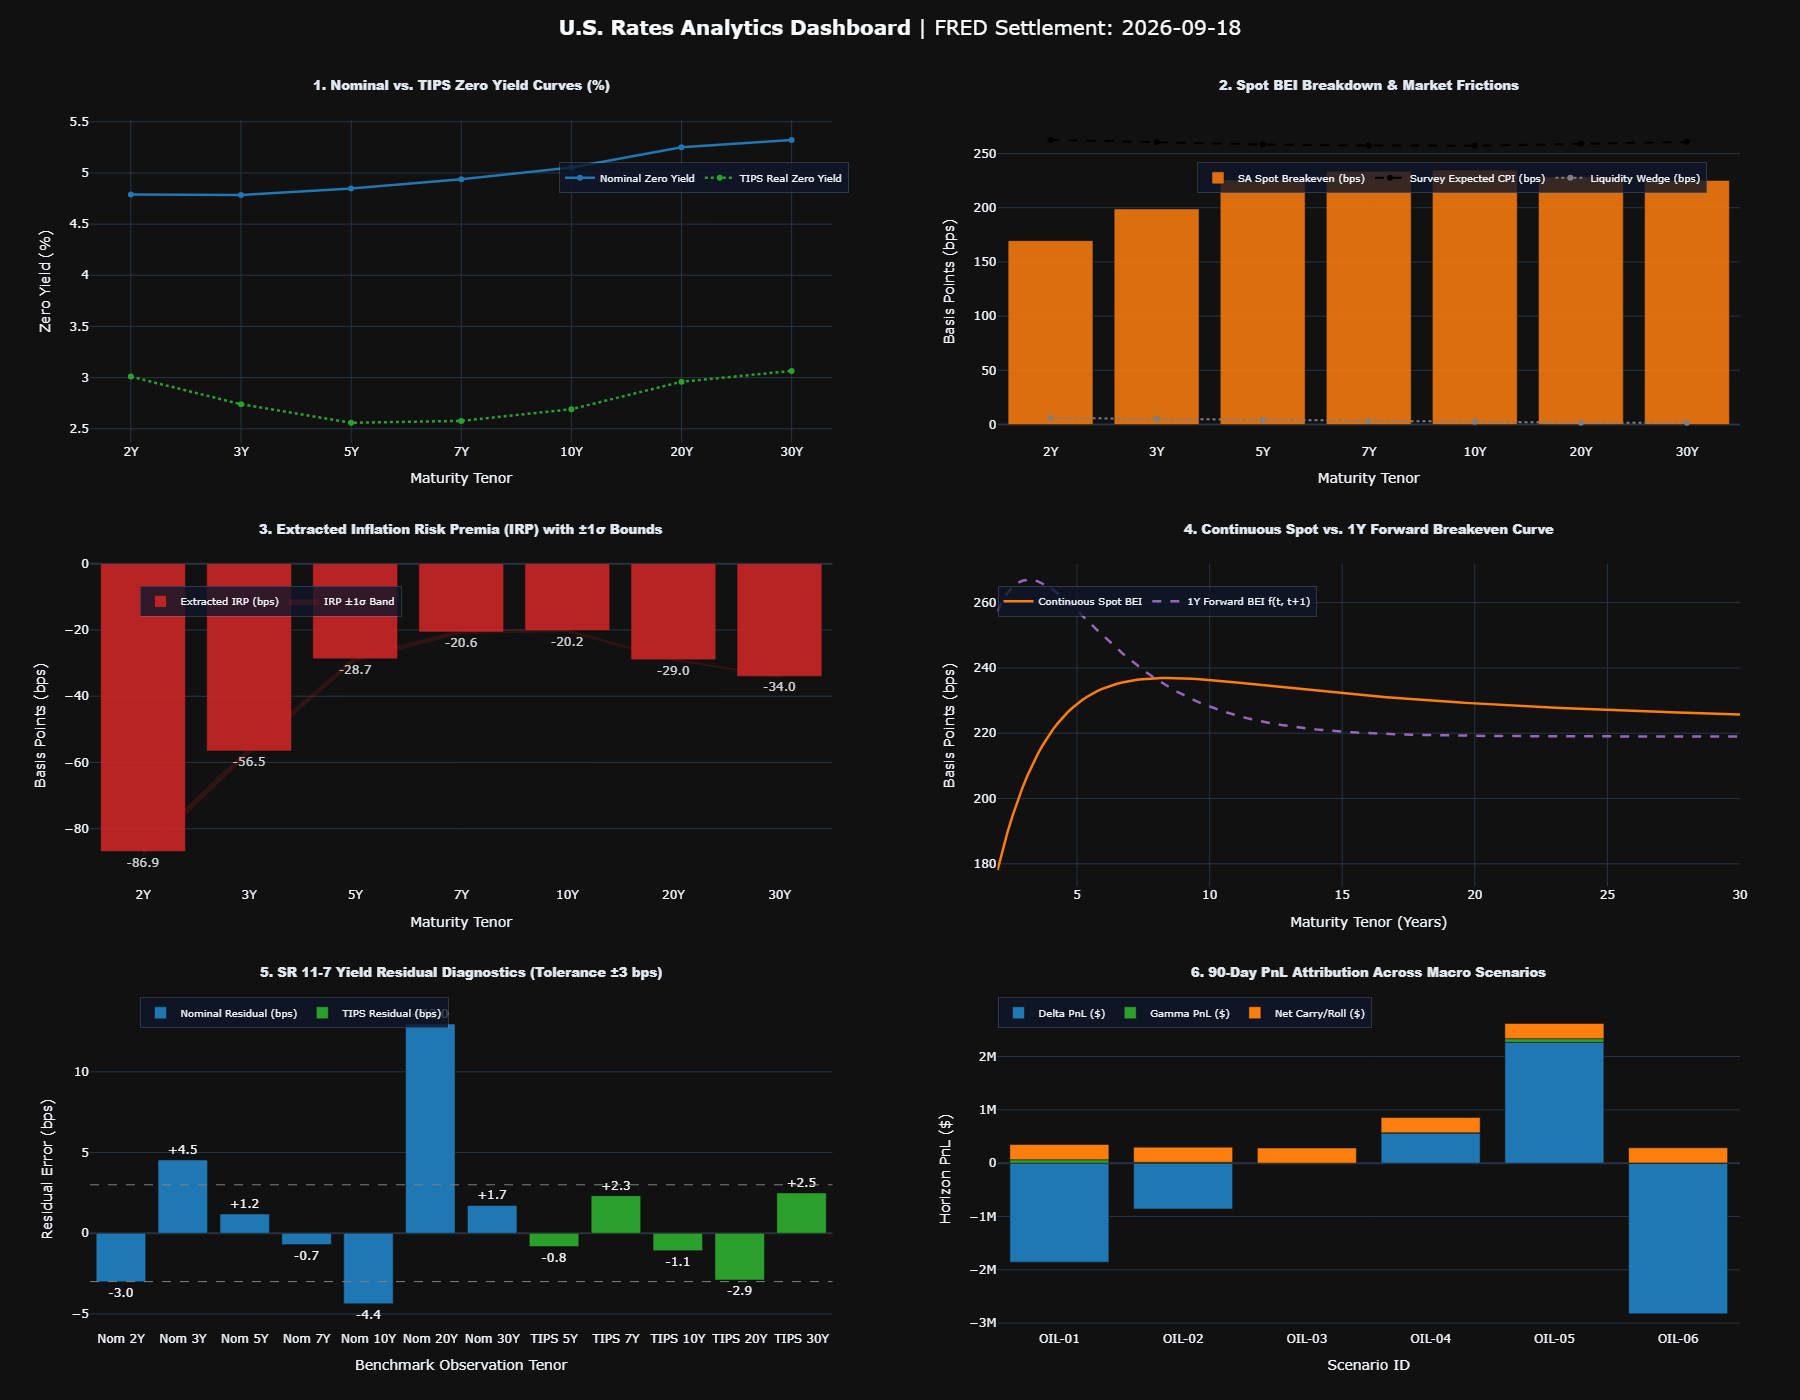
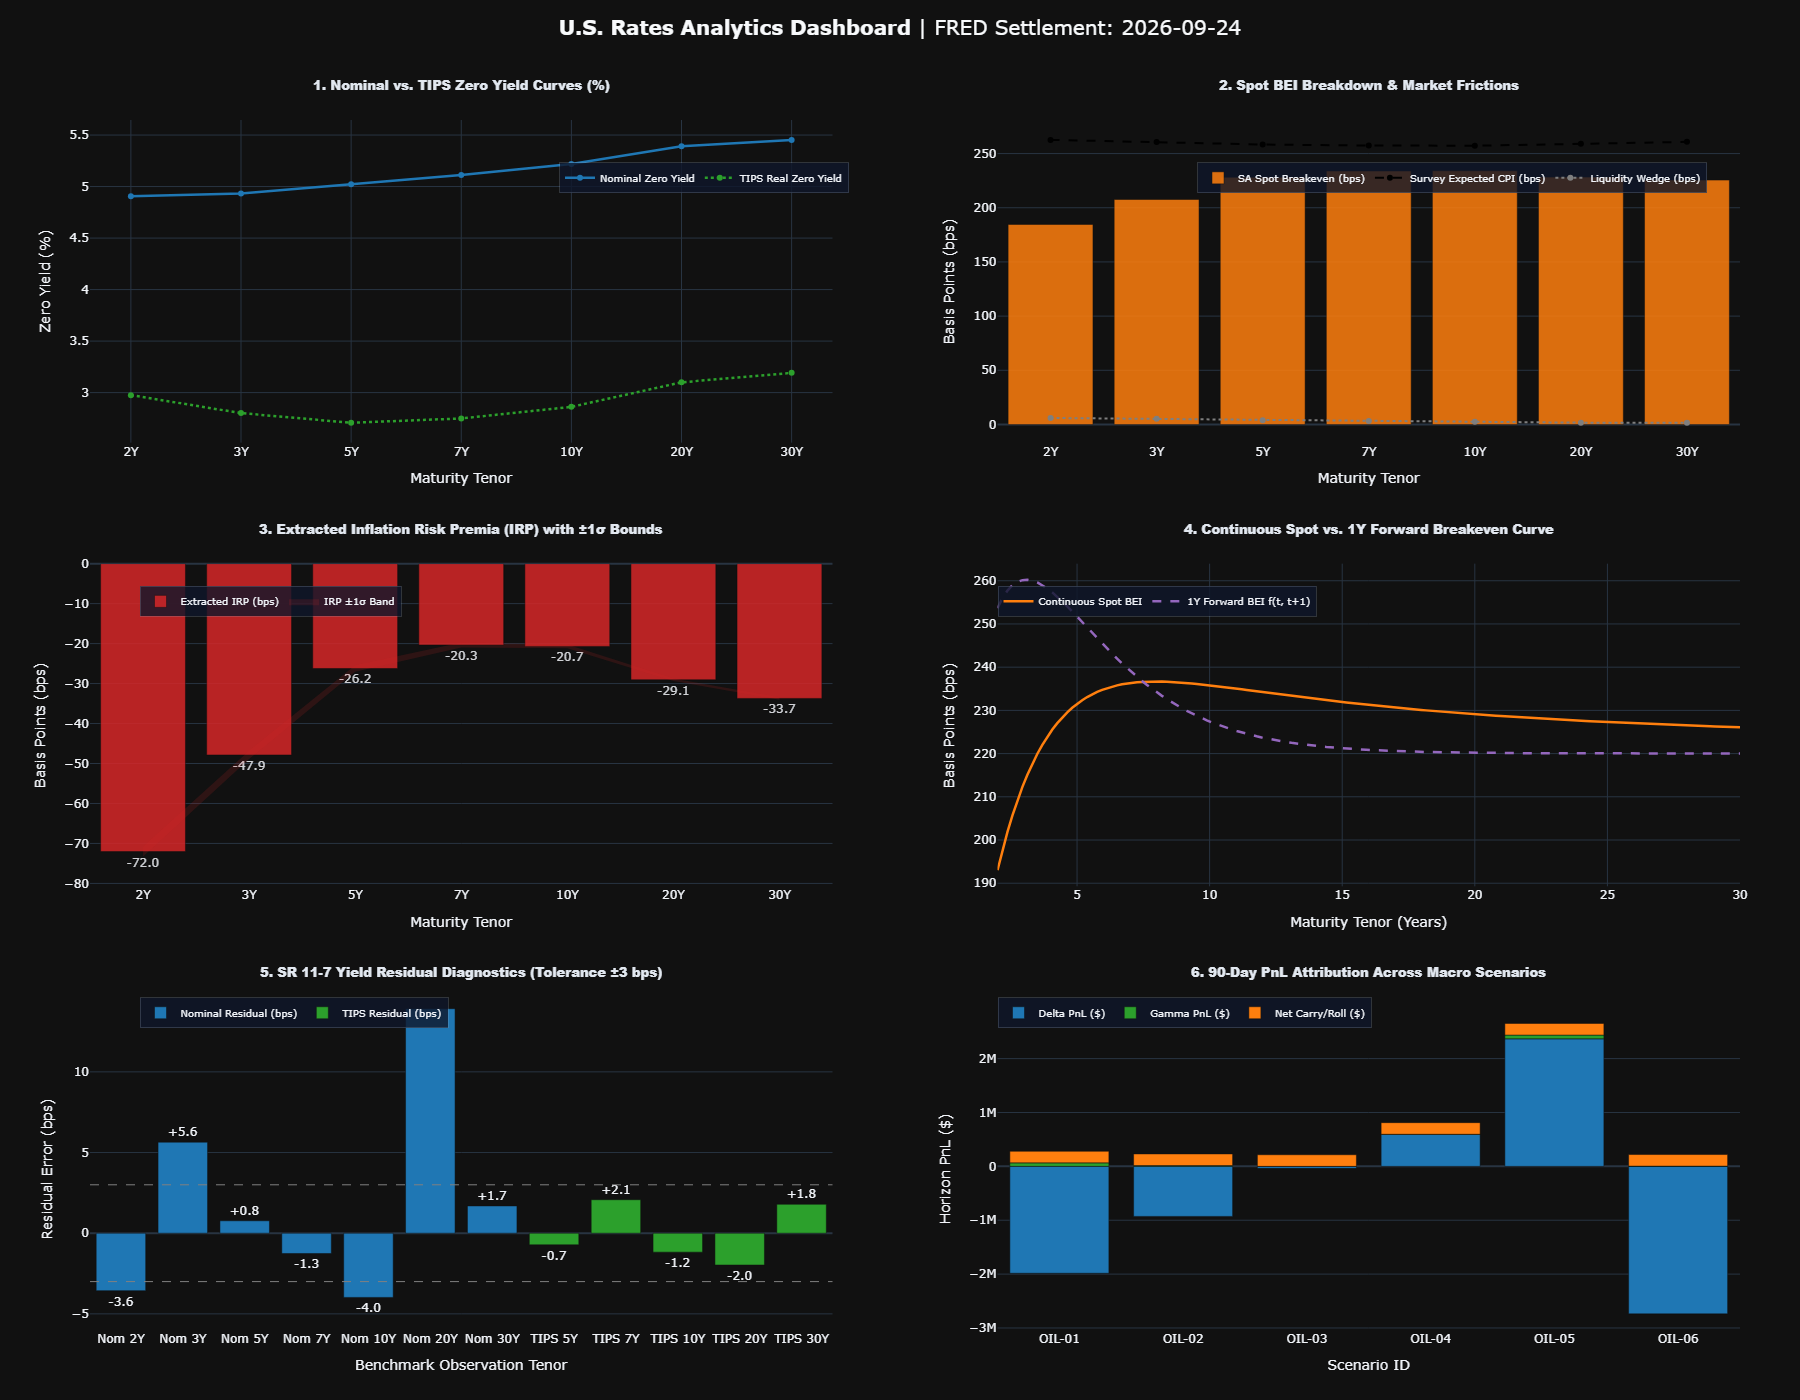
Add files via upload

diff --git a/notebooks/TERM_STRUCTURE_ANALYTICS_OUTPUT.md b/notebooks/TERM_STRUCTURE_ANALYTICS_OUTPUT.md
@@ -1,26 +1,33 @@
-## 4. U.S. Rates & Breakeven Inflation Research Note
-**Settlement Date:** 2026-09-18 | **Model:** Dual Nelson-Siegel Decomposition (D'Amico, Kim, and Wei (2018) Structural Accounting Framework)
+## U.S. RATES & BREAKEVEN INFLATION RESEARCH NOTE
+**Settlement Date:** 2026-09-24 | **Model:** Dual Nelson-Siegel Decomposition (D'Amico, Kim, and Wei (2018) Structural Accounting Framework)
 
 ![Term Structure Dashboard](rates_dashboard.png)
 
-### 1. Executive Summary
-Quantitative term structure and relative-value breakeven analytics for settlement date **September 18, 2026**:
+### 1. Executive Summary & Market Context
 
+#### 1.1 Macro Regime Surveillance (2022 - 2026)
+
+![Macro Regime Time Series](macro_regime_timeseries.png)
+
+* **10Y Rate Trajectory**: 10Y Nominal yields moved from 1.63% to 5.18% (+355 bps), while 10Y TIPS real yields shifted from -0.97% to 2.85% (+382 bps net: historical range [-1.04%, 2.85%]).
+* **Forward Expectation Anchoring**: 5y5y forward breakevens traded in a 1.92%-2.67% corridor (latest: 2.33%).
+
+#### 1.2 Spot Breakeven Term Structure (September 24, 2026)
 * **Spot Breakeven Term Structure**:
-  * **2Y Spot BEI**: Trades at 178.07 bps (4.790% Nominal vs. 3.009% TIPS).
-  * **Seasonality Adjustment**: Dynamic 5-year BLS factor for September adjusts 2Y SA breakeven to 169.66 bps (-8.41 bps wedge).
-  * **Key Slopes**: 5Y at 225.62 bps and 10Y at 234.61 bps (**5s10s: +8.99 bps**); 30Y anchors at 225.21 bps (**10s30s: -9.40 bps**).
-* **Forward Anchoring (5Y5Y)**: Evaluates to **243.61 bps**.
+  * **2Y Spot BEI**: Trades at 193.01 bps (4.906% Nominal vs. 2.975% TIPS).
+  * **Seasonality Adjustment**: Dynamic 5-year BLS factor for September adjusts 2Y SA breakeven to 184.61 bps (-8.41 bps wedge).
+  * **Key Slopes**: 5Y at 228.15 bps and 10Y at 234.13 bps (**5s10s: +5.98 bps**); 30Y anchors at 225.54 bps (**10s30s: -8.59 bps**).
+* **Forward Anchoring (5Y5Y)**: Evaluates to **240.11 bps**.
 * **Affine IRP Term Premia**:
-  * **10Y IRP**: **-20.18 bps** (±1σ: [-20.68, -19.69] bps)
-  * **30Y IRP**: **-34.02 bps** (±1σ: [-34.34, -33.71] bps)
+  * **10Y IRP**: **-20.70 bps** (±1σ: [-21.19, -20.22] bps)
+  * **30Y IRP**: **-33.72 bps** (±1σ: [-34.03, -33.41] bps)
 
 ---
 
 ### 2. Econometric Diagnostics & Model Validation (SR 11-7)
 
 #### 2.1 Statistical Goodness-of-Fit & Calibration
-1. **Model Selection (BIC)**: Nominal $\text{BIC}_{\text{NS}} = -100.96$ vs. $\text{BIC}_{\text{NSS}} = -95.56$. Selected: **Diebold Li Nelson-Siegel (3-Factor Linear)**.
+1. **Model Selection (BIC)**: Nominal $\text{BIC}_{\text{NS}} = -99.85$ vs. $\text{BIC}_{\text{NSS}} = -94.44$. Selected: **Diebold Li Nelson-Siegel (3-Factor Linear)**.
 2. **Diebold-Li (2006) Parameter Invariance**:
    * Structural decay constant: $\tau_1 = 2.2306$ (centering the empirical curvature hump at $\tau^* = 4.0\text{ years}$).
    * Estimation: Exact closed-form Weighted Least Squares (WLS) with zero non-linear optimization risk.
@@ -28,8 +35,8 @@ Quantitative term structure and relative-value breakeven analytics for settlemen
    * Base front-end wedge: 6.50 bps (decay half-life: 5.0 yrs; floor: 1.50 bps).
    * Stress scalar sensitivity: $\gamma = 0.25$ scaled against STLFSI4.
 4. **Numerical Stability**: Nominal basis condition number $\kappa = 23.73$; TIPS $\kappa = 82.25$ (well below the 30.0 threshold).
-5. **Residual Precision**: Nominal RMSE = 5.631 bps; TIPS RMSE = 2.091 bps.
-6. **Reference Indexation**: Daily interpolated Ref CPI = 333.9327 ($CIF = 1.0307$).
+5. **Residual Precision**: Nominal RMSE = 6.083 bps; TIPS RMSE = 1.631 bps.
+6. **Reference Indexation**: Daily interpolated Ref CPI = 333.9259 ($CIF = 1.0307$).
 
 #### 2.2 Model Governance, Assumptions & Operational Limitations
 * **Model Classification**: Tier 2 Quantitative Valuation & Relative Value Engine.
@@ -42,17 +49,17 @@ calibrated via observable market liquidity proxies rather than the continuous-ti
 
 ### 4.6 Quantitative Dashboard Figure Interpretation
 
-* **Figure 1 (Zero Yield Term Structure & Macro Stance)**: The nominal curve trades **upward-sloping (steep)** (2s10s spread: **+26.4 bps**, spanning 4.79% to 5.32%), while the real TIPS curve exhibits a 2s10s slope of **-31.9 bps** (3.01% to 3.07%). Real yields are firmly restrictive across all tenors (trough at **2.56%**), confirming that policy rates ($r > r^*$) maintain high hurdle rates across risk assets. Ten-year real rates are anchoring at an elevated **2.69%**, discounting post-GFC secular stagnation.
+* **Figure 1 (Zero Yield Term Structure & Macro Stance)**: The nominal curve trades **upward-sloping (steep)** (2s10s spread: **+31.4 bps**, spanning 4.91% to 5.45%), while the real TIPS curve exhibits a 2s10s slope of **-11.4 bps** (2.98% to 3.19%). Real yields are firmly restrictive across all tenors (trough at **2.71%**), confirming that policy rates ($r > r^*$) maintain high hurdle rates across risk assets. Ten-year real rates are anchoring at an elevated **2.86%**, discounting post-GFC secular stagnation.
 
-* **Figure 2 (Spot BEI Breakdown & Market Frictions)**: Seasonally adjusted spot breakevens span **169.7 to 234.6 bps**. At the 10Y tenor, consensus survey CPI sits **22.7 bps above** market-implied pricing. The DKW-calibrated liquidity wedge imposes a **6.1 bps penalty at 2Y**, decaying asymptotically to **1.6 bps at 30Y**.
+* **Figure 2 (Spot BEI Breakdown & Market Frictions)**: Seasonally adjusted spot breakevens span **184.6 to 234.1 bps**. At the 10Y tenor, consensus survey CPI sits **23.1 bps above** market-implied pricing. The DKW-calibrated liquidity wedge imposes a **6.0 bps penalty at 2Y**, decaying asymptotically to **1.6 bps at 30Y**.
 
-* **Figure 3 (Extracted Inflation Risk Premia & Confidence Bands)**: Extracted latent IRP sits strictly in a **negative corridor** (-86.9 to -20.2 bps). This reflects strong institutional duration demand (asset-liability matching at prevailing 5.05% nominal yields) and flight-to-safety hedging that compresses nominal yields below survey expectations. At the 10Y benchmark, IRP evaluates to **-20.2 bps** (\pm 1\sigma bounds: [-20.7, -19.7] bps).
+* **Figure 3 (Extracted Inflation Risk Premia & Confidence Bands)**: Extracted latent IRP sits strictly in a **negative corridor** (-72.0 to -20.3 bps). This reflects strong institutional duration demand (asset-liability matching at prevailing 5.22% nominal yields) and flight-to-safety hedging that compresses nominal yields below survey expectations. At the 10Y benchmark, IRP evaluates to **-20.7 bps** (\pm 1\sigma bounds: [-21.2, -20.2] bps).
 
-* **Figure 4 (Continuous Spot vs. 1Y Forward Breakevens)**: Calibrating curves via the Diebold-Li (2006) macro invariant ($\tau_1 = 2.2307$, $\tau^* = 4.0\text{Y}$) ensures identical factor loading spaces across nominal and TIPS curves. The continuous 1Y forward breakeven curve $f^{\text{BEI}}(t, t+1)$ eliminates tail-whip divergence. The benchmark 5Y5Y forward breakeven anchors cleanly at **243.6 bps**, confirming long-term central bank credibility remains intact.
+* **Figure 4 (Continuous Spot vs. 1Y Forward Breakevens)**: Calibrating curves via the Diebold-Li (2006) macro invariant ($\tau_1 = 2.2307$, $\tau^* = 4.0\text{Y}$) ensures identical factor loading spaces across nominal and TIPS curves. The continuous 1Y forward breakeven curve $f^{\text{BEI}}(t, t+1)$ eliminates tail-whip divergence. The benchmark 5Y5Y forward breakeven anchors cleanly at **240.1 bps**, confirming long-term central bank credibility remains intact.
 
-* **Figure 5 (SR 11-7 Model Residual Diagnostics)**: **FLAGGED**: 3 liquid benchmark(s) exceeded the $\pm 3.0\text{ bps}$ gate: **Nom 2Y (-3.0 bps), Nom 3Y (+4.5 bps), Nom 10Y (-4.4 bps)**. Aggregate Nominal RMSE printed at **5.63 bps** and TIPS RMSE at **2.09 bps**, reflecting the parsimony trade-off of a 3-factor linear basis. The nominal 20Y trades at an outlier residual of **+13.0 bps** (isolated via WOLS weight $w_{20\text{Y}} = 0.05$).
+* **Figure 5 (SR 11-7 Model Residual Diagnostics)**: **FLAGGED**: 3 liquid benchmark(s) exceeded the $\pm 3.0\text{ bps}$ gate: **Nom 2Y (-3.6 bps), Nom 3Y (+5.6 bps), Nom 10Y (-4.0 bps)**. Aggregate Nominal RMSE printed at **6.08 bps** and TIPS RMSE at **1.63 bps**, reflecting the parsimony trade-off of a 3-factor linear basis. The nominal 20Y trades at an outlier residual of **+13.9 bps** (isolated via WOLS weight $w_{20\text{Y}} = 0.05$).
 
-* **Figure 6 (90-Day PnL Attribution Across Macro Scenarios)**: Across stress regimes, maximum upside occurs under **OIL-05 (+USD 2,619,714.32)**, while maximum loss occurs under **OIL-06 (-USD 2,537,624.05)**. Regulatory 10-day 99% Historical VaR evaluates to **USD 1,421,794.96** (Expected Shortfall: **USD 1,591,241.08**), demonstrating capital adequacy under FRTB stress.
+* **Figure 6 (90-Day PnL Attribution Across Macro Scenarios)**: Across stress regimes, maximum upside occurs under **OIL-05 (+USD 2,652,600.99)**, while maximum loss occurs under **OIL-06 (-USD 2,517,972.07)**. Regulatory 10-day 99% Historical VaR evaluates to **USD 1,341,184.26** (Expected Shortfall: **USD 1,533,377.19**), demonstrating capital adequacy under FRTB stress.
 
 
 ---
@@ -64,10 +71,10 @@ $$\text{Position} = \text{Long USD 100M Par 10Y Nominal} + \text{Short 10Y TIPS}
 
 | Metric | Nominal Leg | TIPS Hedged Leg | Net / Status |
 | :--- | :---: | :---: | :--- |
-| **Par Notional** | USD 100,000,000.00 | USD 134,051,452.81 | $\beta_{10\text{Y}} = 0.715$ |
-| **Actual Cash Principal** | USD 100,000,000.00 | USD 138,171,247.39 | Scaled by $CIF = 1.0307$ |
-| **DV01** | USD 97,535.40 | USD 136,336.94 | Duration & Beta Neutral |
-| **Convexity ($C$)** | 99.89 | 102.23 | Net Long Convexity |
+| **Par Notional** | USD 100,000,000.00 | USD 125,564,218.85 | $\beta_{10\text{Y}} = 0.764$ |
+| **Actual Cash Principal** | USD 100,000,000.00 | USD 129,420,540.32 | Scaled by $CIF = 1.0307$ |
+| **DV01** | USD 97,456.48 | USD 127,594.83 | Duration & Beta Neutral |
+| **Convexity ($C$)** | 99.73 | 102.06 | Net Long Convexity |
 
 ---
 
@@ -75,18 +82,18 @@ $$\text{Position} = \text{Long USD 100M Par 10Y Nominal} + \text{Short 10Y TIPS}
 
 | Key Tenor | 2Y Bucket | 5Y Bucket | 10Y Bucket | 30Y Bucket | Total Duration |
 | :--- | :---: | :---: | :---: | :---: | :---: |
-| **Nominal 10Y KRD** | 0.654 | -4.037 | -3.964 | -2.405 | **-9.752 yrs** |
+| **Nominal 10Y KRD** | 0.654 | -4.034 | -3.960 | -2.403 | **-9.744 yrs** |
 
 ---
 
 ### 5.3 Regulatory Market Risk (FRTB / Basel III Standards)
 
-* **10-Day 99% Historical Simulation VaR**: USD 1,421,794.96
-* **10-Day 99% Expected Shortfall (ES)**: USD 1,591,241.08
-* **Max 252-Day Historical Drawdown**: USD 1,801,512.82
-* **3-Month Repo Carry**: -USD 338,541.23 (SOFR: 362.0 bps vs. TIPS Repo: 360.0 bps)
-* **3-Month Curve Roll-Down**: +USD -53,939.67 (Nominal: -0.84 bps vs. TIPS: -1.00 bps)
-* **Net 90-Day Carry Drag**: -USD 284,601.56 (Hurdle: **+2.92 bps** over 90 days)
+* **10-Day 99% Historical Simulation VaR**: USD 1,341,184.26
+* **10-Day 99% Expected Shortfall (ES)**: USD 1,533,377.19
+* **Max 252-Day Historical Drawdown**: USD 1,807,616.13
+* **3-Month Repo Carry**: -USD 259,784.86 (SOFR: 362.0 bps vs. TIPS Repo: 360.0 bps)
+* **3-Month Curve Roll-Down**: +USD -44,576.41 (Nominal: -0.75 bps vs. TIPS: -0.93 bps)
+* **Net 90-Day Carry Drag**: -USD 215,208.46 (Hurdle: **+2.21 bps** over 90 days)
 
 ---
 
@@ -94,23 +101,23 @@ $$\text{Position} = \text{Long USD 100M Par 10Y Nominal} + \text{Short 10Y TIPS}
 
 | Scenario ID | Regime Description | $\Delta y_{\text{Nom}}$ | $\Delta y_{\text{TIPS}}$ | Delta PnL (USD) | Gamma PnL (USD) | Total Horizon PnL (USD) |
 | :--- | :--- | :---: | :---: | :---: | :---: | :---: |
-| **OIL-01** | Geopolitical Dislocation | +40.0 bps | +15.0 bps | -1,856,361.68 | +64,019.49 | **-1,507,740.64** |
-| **OIL-02** | Asymmetric Supply Shock | +20.0 bps | +8.0 bps | -860,012.37 | +15,457.52 | **-559,953.30** |
-| **OIL-03** | Baseline Strip Realization | +3.0 bps | +2.0 bps | -19,932.30 | +166.99 | **+264,836.25** |
-| **OIL-04** | Cyclical Demand Easing | -10.0 bps | -3.0 bps | +566,343.13 | +4,358.77 | **+855,303.45** |
-| **OIL-05** | Supply Glut / Liquidation | -40.0 bps | -12.0 bps | +2,265,372.51 | +69,740.25 | **+2,619,714.32** |
-| **OIL-06** | Cost-Push Stagflation | +15.0 bps | -10.0 bps | -2,826,400.36 | +4,174.75 | **-2,537,624.05** |
+| **OIL-01** | Geopolitical Dislocation | +40.0 bps | +15.0 bps | -1,984,336.90 | +64,921.72 | **-1,704,206.73** |
+| **OIL-02** | Asymmetric Supply Shock | +20.0 bps | +8.0 bps | -928,371.04 | +15,718.60 | **-697,443.98** |
+| **OIL-03** | Baseline Strip Realization | +3.0 bps | +2.0 bps | -37,179.79 | +184.60 | **+178,213.26** |
+| **OIL-04** | Cyclical Demand Easing | -10.0 bps | -3.0 bps | +591,780.35 | +4,391.95 | **+811,380.75** |
+| **OIL-05** | Supply Glut / Liquidation | -40.0 bps | -12.0 bps | +2,367,121.39 | +70,271.14 | **+2,652,600.99** |
+| **OIL-06** | Cost-Push Stagflation | +15.0 bps | -10.0 bps | -2,737,795.53 | +4,615.01 | **-2,517,972.07** |
 
 ---
 
 ### 5.5 10s30s Duration-Neutral Curve Box Structure
 
-$$\text{Position} = \text{Long 10Y Box (+USD 100M)} + \text{Short 30Y Box (-USD 33.38M)}$$
+$$\text{Position} = \text{Long 10Y Box (+USD 100M)} + \text{Short 30Y Box (-USD 33.37M)}$$
 
 | Leg | Instrument | Par Notional (USD) | DV01 (USD) | Hedge Parameter |
 | :--- | :--- | :---: | :---: | :--- |
-| **Leg 1** | Long 10Y Nominal | 100,000,000.00 | +97,535.40 | Par Target |
-| **Leg 1** | Short 10Y TIPS | 134,051,452.81 | -97,535.40 | $\beta_{10\text{Y}} = 0.715$ |
-| **Leg 2** | Short 30Y Nominal | 33,377,070.18 | -97,535.40 | Duration Matched |
-| **Leg 2** | Long 30Y TIPS | 42,116,939.44 | +97,535.40 | $\beta_{30\text{Y}} = 0.760$ |
+| **Leg 1** | Long 10Y Nominal | 100,000,000.00 | +97,456.48 | Par Target |
+| **Leg 1** | Short 10Y TIPS | 125,564,218.85 | -97,456.48 | $\beta_{10\text{Y}} = 0.764$ |
+| **Leg 2** | Short 30Y Nominal | 33,371,226.64 | -97,456.48 | Duration Matched |
+| **Leg 2** | Long 30Y TIPS | 40,204,216.50 | +97,456.48 | $\beta_{30\text{Y}} = 0.796$ |
 | **Portfolio** | **Net Structure** | — | **0.00** | **Strictly Curve-Neutral** |
